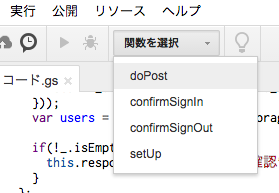
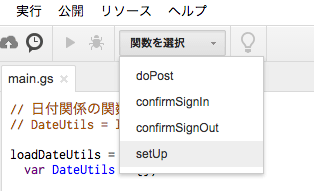
ドキュメントの画像調整

diff --git a/README.md b/README.md
@@ -46,10 +46,13 @@ Slackで下記の様につぶやくと、みやもとさんがGoogle Spreadsheet
 - もう一度「作成」ボタンを押して「スクリプト」選択します。
 - 「スクリプトを作成」の下にある「空のプロジェクト」を選択します。
 - 新しいスクリプトを作る画面へ遷移するので、左上の「無題のプロジェクト」をクリックして、「Miyamoto-san」に変更します。
+
+![gas03](https://raw.githubusercontent.com/masuidrive/miyamoto/master/docs/images/gas03.png)
+
+
 - [main.gs](https://raw.githubusercontent.com/masuidrive/miyamoto/master/main.gs)をコピーして、ブラウザ内のエディタ部に貼り付けます。
 - メニューから「ファイル」→「保存」を選択して保存します。
 
-![gas03](https://raw.githubusercontent.com/masuidrive/miyamoto/master/docs/images/gas03.png)
 
 
 ### 初期化
@@ -66,13 +69,14 @@ Slackで下記の様につぶやくと、みやもとさんがGoogle Spreadsheet
 
 - メニューから「公開」→「ウェブアプリケーションとして導入...」を選びます。
 - 先に「新しいバージョンを保存」ボタンを押した後、「アプリケーションにアクセスできるユーザ」から「全員（匿名ユーザを含む）」を選択します。
+- 登録完了後に出るウインドーの「現在のウェブアプリケーションのURL」をどこかにメモしておいてください。
 
 ![gas20](https://raw.githubusercontent.com/masuidrive/miyamoto/master/docs/images/gas20.png)
 
+
 - 「全員（匿名ユーザを含む）」が見つからない場合は、https://admin.google.com/ から「Google Apps」→「ドライブ」を選択して、「共有設定」の「ユーザは組織外のユーザとファイルを共有できる」を選択します。
-- ![admin1](https://raw.githubusercontent.com/masuidrive/miyamoto/master/docs/images/admin1.png)
-- ![admin2](https://raw.githubusercontent.com/masuidrive/miyamoto/master/docs/images/admin2.png)
-- 登録完了後に出るウインドーの「現在のウェブアプリケーションのURL」をどこかにメモしておいてください。
+- ![admin0](https://raw.githubusercontent.com/masuidrive/miyamoto/master/docs/images/admin0.png)
+
 
 
 ## Slackへの設定
